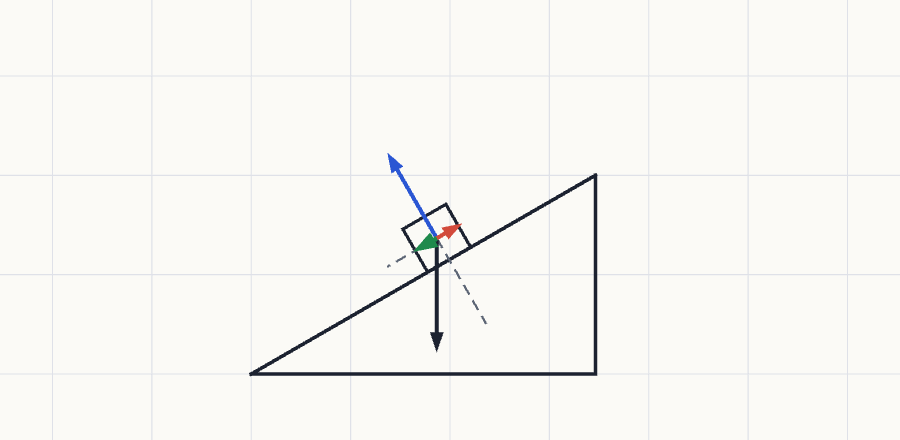
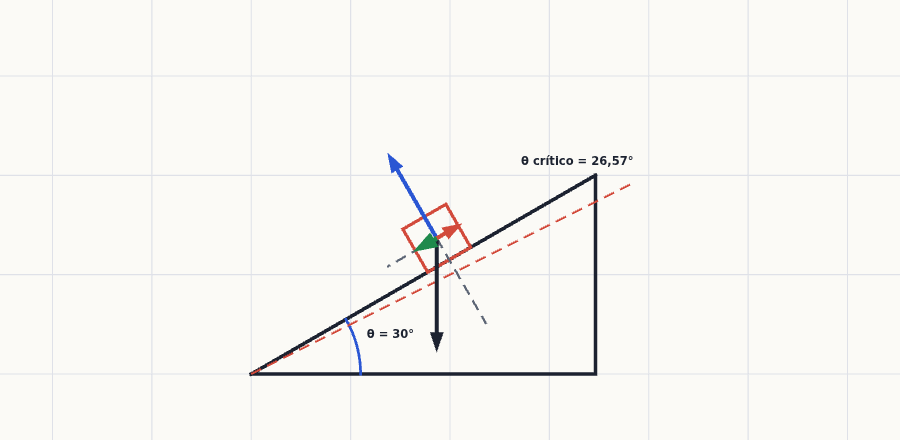
Interactivos con manipulación directa: asas arrastrables sobre el dibujo (rampa, cubo y sonda de presión, vector de lanzamiento, fuerzas, resorte, orificio) sincronizadas con los deslizadores
Claude-Session: https://claude.ai/code/session_013NPRw5Yt76X8T2S3CHRMJi

diff --git a/assets/escenas/flotacion.js b/assets/escenas/flotacion.js
@@ -1,20 +1,22 @@
 /* Flotación y principio de Arquímedes (tema 12, §12.3 de U; ejemplo 12.5). params: {"dim":2}.
    Recipiente ancho con un líquido de profundidad D = 50 cm (el nivel no cambia al meter el cuerpo) y un cubo de lado a y densidad ρc.
    Libre:    si ρc ≤ ρf flota con parte sumergida  d = a·ρc/ρf  (de B = mg);  si ρc > ρf se hunde y se apoya en el fondo (N = mg − B).
-   Colgado:  totalmente sumergido, cara superior 6 cm bajo la superficie;  T = mg − B  (peso aparente; T < 0 ⇒ el hilo no puede empujar).
+   Sostenido: el cuerpo se arrastra con el ratón (o con el deslizador) a la profundidad que se quiera, desde asomando hasta el fondo; B = ρf V_sum g crece mientras se hunde y se queda
+             constante al sumergirse del todo, aunque las presiones sigan creciendo (la diferencia p_inf − p_sup no cambia);  T = mg − B  (T < 0 ⇒ el hilo no puede empujar).
+   Sonda:    círculo arrastrable dentro del líquido: lee p = ρf g h, que solo depende de la profundidad (no de x), y la presión actúa en todas las direcciones.
    Fuerzas:  mg = ρc a³ g;  B = ρf V_sum g;  presiones manométricas p = ρf g (profundidad) en las caras;  B = (p_inf − p_sup)·a².
    Las flechas de fuerza comparten una misma escala (la mayor mide 10 unidades del dibujo). A la derecha, p(profundidad): recta con pendiente ρf g,
    cuyo extremo (fondo) siempre ocupa el ancho de la gráfica. g = 9,8 m/s². */
 Interactivos.registrar('flotacion', function (c) {
   var T = c.THREE, H = c.H, P = c.colores(), g = 9.8, D = 50, W = 60, GX = 72, GW = 46, w = 0.5, listo = false, objs = [];
   var FL = [['Etanol (810 kg/m³)', 810], ['Agua (1000 kg/m³)', 1000], ['Agua de mar (1030 kg/m³)', 1030], ['Glicerina (1260 kg/m³)', 1260], ['Mercurio (13600 kg/m³)', 13600]];
-  var iF = 1, rc = 600, a = 10, modo = 0;
-  var liq, sup, pared, cubo, borde, hilo, aMg, aB, aPt, aPb, aT, curv, guias, dt, db, eje;
+  var iF = 1, rc = 600, a = 10, modo = 0, ht = 6, sx0 = 12, sy0 = 20, sHt, selM;
+  var liq, sup, pared, cubo, borde, hilo, aMg, aB, aPt, aPb, aT, curv, guias, dt, db, eje, sonda, sGuia, sPt, sFl = [], cx = W / 2, cyy = 0, hsC = 6;
   var lPeso = c.lectura('Peso  mg = ρc a³ g'), lEmp = c.lectura('Empuje  B = ρf V sumergido g  (= peso del fluido desplazado)'), lFr = c.lectura('Parte del cuerpo sumergida'),
       lT = c.lectura('Hilo o fondo'), lP = c.lectura('Presión manométrica en la cara superior  |  inferior'), lC = c.lectura('Comprobación: B = (p inf − p sup)·A');
   var f = function (x, d) { var k = Math.pow(10, d), q = Math.round(x * k) / k; return String(q === 0 ? 0 : q).replace('-', '−').replace('.', ','); };
   var eMg = c.etiqueta('mg', 0, 0, 'c'), eB = c.etiqueta('B', 0, 0, 'c'), ePt = c.etiqueta('Fsup', 0, 0, 'r'), ePb = c.etiqueta('Finf', 0, 0, 'r'), eT = c.etiqueta('T', 0, 0, 'l'),
-      eG = c.etiqueta('p manométrica', GX, D + 4, 'l'), eF = c.etiqueta('fondo', GX + GW, -3, 'r'), eL = c.etiqueta('líquido', 3, D - 4, 'l');
+      eG = c.etiqueta('p manométrica', GX, D + 4, 'l'), eF = c.etiqueta('fondo', GX + GW, -3, 'r'), eL = c.etiqueta('líquido', 3, D - 4, 'l'), eSo = c.etiqueta('', 0, 0, 'l');
   function add(o, z) { o.position.z = z; c.scene.add(o); objs.push(o); return o; }
   function plano(col, op) { return new T.Mesh(new T.PlaneGeometry(1, 1), new T.MeshBasicMaterial({ color: col, transparent: true, opacity: op })); }
   function nuevo() {
@@ -32,19 +34,22 @@ Interactivos.registrar('flotacion', function (c) {
     dt = H.punto(T, 0, 0, w * 1.7, P.A); add(dt, 0.4); db = H.punto(T, 0, 0, w * 1.7, P.A); add(db, 0.4);
     aMg = add(H.flecha2D(T, P.fg, w * 1.8), 0.3); aB = add(H.flecha2D(T, P.L, w * 1.8), 0.31); aPt = add(H.flecha2D(T, P.S, w * 1.8), 0.32);
     aPb = add(H.flecha2D(T, P.S, w * 1.8), 0.33); aT = add(H.flecha2D(T, P.W, w * 1.8), 0.34);
+    sGuia = add(H.cinta(T, [], P.acc, w * 0.8, [w * 2.5, w * 2]), 0.08); sPt = H.punto(T, 0, 0, w * 1.7, P.acc); add(sPt, 0.4);
+    sonda = H.punto(T, 0, 0, w * 2.2, P.acc); add(sonda, 0.4);
+    sFl = [0, 1, 2, 3].map(function (i) { return add(H.flecha2D(T, P.acc, w * 1.3), 0.35); });
   }
   function calc() {
     if (!listo) return;
-    var rf = FL[iF][1], A2 = a / 100 * a / 100, V = A2 * a / 100, mg = rc * V * g, cx = W / 2, cy, yb, yt, dsum, colg = modo === 1, flota = false, apoy = false;
-    if (colg) { yt = D - 6; yb = yt - a; dsum = a; }
+    var rf = FL[iF][1], A2 = a / 100 * a / 100, V = A2 * a / 100, mg = rc * V * g, cy, yb, yt, dsum, colg = modo === 1, flota = false, apoy = false;
+    if (colg) { hsC = Math.min(ht, D - a); yt = D - hsC; yb = yt - a; dsum = Math.max(0, Math.min(a, D - yb)); }
     else if (rc <= rf) { dsum = a * rc / rf; yb = D - dsum; yt = yb + a; flota = true; }
     else { yb = 0; yt = a; dsum = a; apoy = true; }
-    cy = (yb + yt) / 2;
-    var B = rf * (A2 * dsum / 100) * g, Tt = mg - B, pt = rf * g * Math.max(0, D - yt) / 100, pb = rf * g * (D - yb) / 100, Bp = (pb - pt) * A2;
+    cy = (yb + yt) / 2; cyy = cy;
+    var B = rf * (A2 * dsum / 100) * g, Tt = mg - B, pt = rf * g * Math.max(0, D - yt) / 100, pb = rf * g * Math.max(0, D - yb) / 100, Bp = (pb - pt) * A2;
     var K = 10 / Math.max(1e-9, mg, B, pb * A2, pt * A2, Math.abs(Tt)), pmax = rf * g * D / 100, sx = GW / pmax;
     cubo.position.set(cx, cy, 0.1); cubo.scale.set(a, a, 1);
     borde.set([[[cx - a / 2, yb], [cx + a / 2, yb], [cx + a / 2, yt], [cx - a / 2, yt], [cx - a / 2, yb]]]);
-    hilo.set(colg ? [[[cx, yt], [cx, D + 8]], [[cx - 5, D + 8], [cx + 5, D + 8]]] : []);
+    var yh = Math.max(D + 8, yt + 5); hilo.set(colg ? [[[cx, yt], [cx, yh]], [[cx - 5, yh], [cx + 5, yh]]] : []);
     var x1 = cx - 0.3 * a, x2 = cx + 0.12 * a, x3 = cx + 0.36 * a, lPt = K * pt * A2, lPb = K * pb * A2;
     aPt.poner([x1, yt + lPt], [x1, yt]); if (apoy) aPb.poner([x1, yb], [x1, yb]); else aPb.poner([x1, yb - lPb], [x1, yb]);
     aMg.poner([x2, cy], [x2, cy - K * mg]); aB.poner([x3, cy], [x3, cy + K * B]);
@@ -54,11 +59,15 @@ Interactivos.registrar('flotacion', function (c) {
     var ypt = Math.min(yt, D), xpt = GX + sx * pt, xpb = GX + sx * pb;
     dt.mover(xpt, ypt); db.mover(xpb, yb);
     guias.set([[[W + 0.5, ypt], [xpt, ypt]], [[W + 0.5, yb], [xpb, yb]]]);
+    var ps = rf * g * (D - sy0) / 100, xs = GX + sx * ps, Lf = 1.2 + 5.5 * ps / pmax, rr = 2.6;
+    sonda.mover(sx0, sy0); sPt.mover(xs, sy0); sGuia.set([[[sx0 + 1.5, sy0], [xs, sy0]]]);
+    [[-1, 0], [1, 0], [0, 1], [0, -1]].forEach(function (d, i) { sFl[i].poner([sx0 + d[0] * (rr + Lf), sy0 + d[1] * (rr + Lf)], [sx0 + d[0] * rr, sy0 + d[1] * rr]); });
+    eSo.mover(xs + 1.2, sy0 + 2.4); eSo.poner('h = ' + f(D - sy0, 1) + ' cm → p = ' + f(ps / 1000, 2) + ' kPa');
     eF.poner('fondo: ' + f(pmax / 1000, 2) + ' kPa');
     lPeso(f(mg, 2) + ' N   (m = ' + f(rc * V, 3) + ' kg;  V = ' + f(V * 1e6, 0) + ' cm³)');
     lEmp(f(B, 2) + ' N');
     lFr(f(100 * dsum / a, 1) + ' %' + (flota ? '   (= ρc/ρf = ' + f(100 * rc / rf, 1) + ' %)' : ''));
-    lT(colg ? (Tt >= 0 ? 'T = mg − B = ' + f(Tt, 2) + ' N   (peso aparente)' : 'T = ' + f(Tt, 2) + ' N < 0: el hilo no puede empujar; sin hilo el cuerpo subiría y flotaría')
+    lT(colg ? (dsum < a - 1e-9 ? 'sostenido a medio sumergir: T = mg − B = ' + f(Tt, 2) + ' N' : Tt >= 0 ? 'T = mg − B = ' + f(Tt, 2) + ' N   (peso aparente)' : 'T = ' + f(Tt, 2) + ' N < 0: el hilo no puede empujar; sin hilo el cuerpo subiría y flotaría')
       : flota ? (rc === rf ? 'flota entre dos aguas: B = mg' : 'flota: B = mg (el empuje iguala al peso)')
       : 'se hunde y se apoya en el fondo: N = mg − B = ' + f(Tt, 2) + ' N (con líquido bajo la cara inferior; si no hubiera, B = 0 y N = mg)');
     lP(f(pt, 0) + ' Pa  |  ' + f(pb, 0) + ' Pa');
@@ -67,9 +76,16 @@ Interactivos.registrar('flotacion', function (c) {
   c.selector('Líquido (tabla 12.1 de U)', FL.map(function (q) { return q[0]; }), iF, function (i) { iF = i; calc(); });
   c.slider('Densidad del cuerpo ρc (kg/m³)', 100, 20000, 10, rc, function (v) { rc = v; calc(); }, function (v) { return f(v, 0) + ' kg/m³'; });
   c.slider('Lado del cubo a (cm)', 5, 20, 0.1, a, function (v) { a = v; calc(); }, function (v) { return f(v, 1) + ' cm'; });
-  c.selector('Cuerpo', ['Libre (se suelta)', 'Colgado de un hilo, totalmente sumergido'], modo, function (i) { modo = i; calc(); });
+  selM = c.selector('Cuerpo', ['Libre (se suelta)', 'Sostenido con un hilo (arrástralo)'], modo, function (i) { modo = i; calc(); });
+  sHt = c.slider('Profundidad de la cara superior (modo sostenido; negativo = asoma)', -10, 45, 0.5, ht, function (v) { ht = v; calc(); }, function (v) { return f(Math.min(v, D - a), 1) + ' cm'; });
+  c.agarres([
+    { titulo: 'Arrastra el cubo hacia arriba o hacia abajo', x: function () { return [cx, cyy]; },
+      mover: function (wx, wy) { if (modo !== 1) { selM.value = 1; selM.dispatchEvent(new Event('change')); } c.fijar(sHt, Math.max(-10, Math.min(45, D - wy - a / 2))); } },
+    { titulo: 'Sonda de presión: arrástrala dentro del líquido', x: function () { return [sx0, sy0]; },
+      mover: function (wx, wy) { sx0 = Math.max(9, Math.min(W - 9, wx)); sy0 = Math.max(1, Math.min(D, wy)); calc(); c.pedir(); } }
+  ]);
   c.leyenda([['var(--A)', 'cuerpo', 'area'], ['var(--fg)', 'peso mg', 'linea'], ['var(--X)', 'empuje B', 'linea'], ['var(--U)', 'fuerzas de presión F = pA en las caras', 'linea'],
-             ['var(--warn-b)', 'tensión T (colgado) o normal N (en el fondo)', 'linea'], ['var(--acc)', 'p(profundidad) = ρf g h', 'linea']]);
+             ['var(--warn-b)', 'tensión T (colgado) o normal N (en el fondo)', 'linea'], ['var(--acc)', 'p(profundidad) = ρf g h; la sonda la lee en cualquier punto', 'linea']]);
   c.alCambiarTema(function (p) {
     P = p; c.renderer.setClearColor(p.bg);
     if (!listo) return;

diff --git a/assets/interactivos.js b/assets/interactivos.js
@@ -217,7 +217,7 @@
         if (dos) scene.traverse(function (o) { if (o.reescalar) o.reescalar(z.s); });
         renderer.render(scene, camera);
         if (dos && params.marcas !== false) marcas();
-        if (dos) posEtiquetas();
+        if (dos) { posEtiquetas(); posAgarres(); }
       }
       /* Etiquetas de texto sobre el lienzo 2D (HTML, en coordenadas del mundo): ctx.etiqueta('texto', x, y, 'l'|'r'|'c') devuelve {poner, mover, ver, ancla, quitar}; solo 2D. */
       var capaE = null, etiq = [];
@@ -229,6 +229,18 @@
           var px = (e.x - L) / (R - L) * W, py = (T2 - e.y) / (T2 - B) * Hh;
           e.el.style.display = e.vis && px > -80 && px < W + 80 && py > -20 && py < Hh + 20 ? '' : 'none';
           e.el.style.left = px + 'px'; e.el.style.top = py + 'px';
+        });
+      }
+      /* Asas arrastrables (solo 2D): círculos pulsantes sobre el lienzo, en coordenadas del mundo. Ver ctx.agarres. */
+      var capaG = null, agr = [], hintAg = null;
+      function posAgarres() {
+        if (!capaG) return;
+        var W = stage.clientWidth, Hh = stage.clientHeight, L = camera.left, R = camera.right, T2 = camera.top, B = camera.bottom;
+        if (!W || !Hh || !(R > L) || !(T2 > B)) return;
+        agr.forEach(function (g) {
+          var p = g.a.x(), vis = !g.a.ver || g.a.ver(), px = (p[0] - L) / (R - L) * W, py = (T2 - p[1]) / (T2 - B) * Hh;
+          g.el.style.display = vis && px > -20 && px < W + 20 && py > -20 && py < Hh + 20 ? '' : 'none';
+          g.el.style.left = px + 'px'; g.el.style.top = py + 'px';
         });
       }
       /* Números en los ejes (solo 2D): etiquetas HTML sobre el lienzo, con paso 1·2·5·10ᵏ según la zona visible. */
@@ -369,7 +381,35 @@
             quitar: function () { var i = etiq.indexOf(o); if (i >= 0) etiq.splice(i, 1); if (el.parentNode) el.parentNode.removeChild(el); } };
           etiq.push(o); return o;
         },
-        alCambiarTema: function (cb) { temaCbs.push(cb); cb(paleta()); }
+        alCambiarTema: function (cb) { temaCbs.push(cb); cb(paleta()); },
+        /* Solo 2D. Asas que se arrastran con el ratón o el dedo directamente sobre el dibujo (la vista solo se mueve si se agarra el fondo):
+           agarres([{ x() → [x, y] posición actual en el mundo, mover(wx, wy) nuevo valor según el puntero, ver() opcional, titulo }]).
+           Para que el deslizador correspondiente siga al asa, mover() llama a ctx.fijar(deslizador, valor). */
+        agarres: function (lista) {
+          if (!dos) return;
+          if (!capaG) { capaG = document.createElement('div'); capaG.className = 'int-grips'; capaG.setAttribute('aria-hidden', 'true'); stage.appendChild(capaG); }
+          lista.forEach(function (a) {
+            var el = document.createElement('span'); el.className = 'int-grip'; if (a.titulo) el.title = a.titulo; capaG.appendChild(el); agr.push({ a: a, el: el });
+          });
+          function cerca(wx, wy, radio) {
+            var mejor = -1, dm = radio, i;
+            for (i = 0; i < agr.length; i++) {
+              if (agr[i].a.ver && !agr[i].a.ver()) continue;
+              var p = agr[i].a.x(), d = Math.hypot(p[0] - wx, p[1] - wy); if (d < dm) { dm = d; mejor = i; }
+            }
+            return mejor;
+          }
+          ctx.arrastre = {
+            coger: function (wx, wy, radio) { var i = cerca(wx, wy, radio); if (i >= 0) agr[i].el.classList.add('on'); return i; },
+            mover: function (i, wx, wy) { agr[i].a.mover(wx, wy); },
+            fin: function (i) { if (agr[i]) agr[i].el.classList.remove('on'); },
+            cerca: cerca
+          };
+          if (!hintAg) { hintAg = true; var h = stage.querySelector('.int-hint'); if (h) h.textContent = 'Arrastra los círculos del dibujo · rueda o pellizco: zoom · doble clic: restablecer'; }
+          pedir();
+        },
+        /* Pone un deslizador (el que devuelve ctx.slider) en un valor y avisa a la escena; el navegador lo ajusta al rango y al paso. */
+        fijar: function (r, v) { r.value = v; r.dispatchEvent(new Event('input')); }
       };
       if (dos) activarZoom();
       fn(ctx);
@@ -406,13 +446,14 @@
         cv.addEventListener('pointerdown', function (e) {
           if (ctx.arrastre && !Object.keys(ptrs).length) {
             var m = mundo(e.clientX, e.clientY), rc = cv.getBoundingClientRect();
-            var i = ctx.arrastre.coger(m[0], m[1], 18 * (camera.right - camera.left) / rc.width);
-            if (i >= 0) { arr = { id: e.pointerId, i: i }; cv.setPointerCapture(e.pointerId); return; }
+            var i = ctx.arrastre.coger(m[0], m[1], 24 * (camera.right - camera.left) / rc.width);
+            if (i >= 0) { arr = { id: e.pointerId, i: i }; try { cv.setPointerCapture(e.pointerId); } catch (x) {} return; }
           }
-          ptrs[e.pointerId] = { x: e.clientX, y: e.clientY }; cv.setPointerCapture(e.pointerId);
+          ptrs[e.pointerId] = { x: e.clientX, y: e.clientY }; try { cv.setPointerCapture(e.pointerId); } catch (x) {}
         });
         cv.addEventListener('pointermove', function (e) {
           if (arr && arr.id === e.pointerId) { var m = mundo(e.clientX, e.clientY); ctx.arrastre.mover(arr.i, m[0], m[1]); pedir(); return; }
+          if (ctx.arrastre && !Object.keys(ptrs).length) { var mh = mundo(e.clientX, e.clientY), rh = cv.getBoundingClientRect(); cv.style.cursor = ctx.arrastre.cerca(mh[0], mh[1], 24 * (camera.right - camera.left) / rh.width) >= 0 ? 'grab' : ''; }
           var p = ptrs[e.pointerId]; if (!p) return; var ids = Object.keys(ptrs);
           if (ids.length === 1) { mover(e.clientX - p.x, e.clientY - p.y); p.x = e.clientX; p.y = e.clientY; return; }
           if (ids.length !== 2) return;
@@ -421,7 +462,7 @@
           var d1 = Math.hypot(a.x - b.x, a.y - b.y), m1x = (a.x + b.x) / 2, m1y = (a.y + b.y) / 2, q = frac(m1x, m1y);
           if (d0 > 0 && d1 > 0) zoomEn(q[0], q[1], d0 / d1); mover(m1x - m0x, m1y - m0y);
         });
-        function suelta(e) { delete ptrs[e.pointerId]; if (arr && arr.id === e.pointerId) arr = null; }
+        function suelta(e) { delete ptrs[e.pointerId]; if (arr && arr.id === e.pointerId) { if (ctx.arrastre.fin) ctx.arrastre.fin(arr.i); arr = null; } }
         cv.addEventListener('pointerup', suelta); cv.addEventListener('pointercancel', suelta);
         cv.addEventListener('dblclick', reset); btnReset.addEventListener('click', reset);
       }

diff --git a/assets/escenas/plano-inclinado.js b/assets/escenas/plano-inclinado.js
@@ -1,14 +1,15 @@
-/* Plano inclinado con fricción (tema 5): DCL, ¿desliza o no? params: {"dim":2}. g = 9,8 m/s². */
+/* Plano inclinado con fricción (tema 5): DCL, ¿desliza o no? params: {"dim":2}. g = 9,8 m/s².
+   Se levanta la rampa arrastrando su vértice superior (o con el deslizador); la línea a trazos marca el ángulo crítico tan θc = μₛ, y el bloque cambia de color al pasarlo. */
 Interactivos.registrar('plano-inclinado', function (c) {
   var T = c.THREE, H = c.H, g = 9.8, rad = Math.PI / 180;
   var th = 30, m = 5, mus = 0.5, muk = 0.3, P = c.colores(), w, K = 4.6 / 98;
-  var ejes, tri, blq, fW, fN, ff, fS, comp;
+  var ejes, tri, blq, fW, fN, ff, fS, comp, arco, crit, sTh, eTh = c.etiqueta('θ', 0, 0, 'c'), eCr = c.etiqueta('', 0, 0, 'r');
   var le = c.lectura('Estado'), ln = c.lectura('n = mg cos θ'), lt = c.lectura('mg sen θ  (empuja cuesta abajo)'), lf = c.lectura('Fricción f'), la = c.lectura('Aceleración a');
   var fm = function (t) { return (Math.round(t * 100) / 100).toString().replace('-', '−').replace('.', ','); };
   function nuevo() {
     var v = [-1, 9, -1, 7.2]; w = 0.0055 * 8.2; c.vista(v[0], v[1], v[2], v[3]);
     ejes = H.ejes2D(T, [-40, 40, -40, 40], w, P.fg, P.bd, 2, 2); ejes.children[1].visible = false; c.scene.add(ejes);
-    tri = H.cinta(T, [], P.fg, w * 1.6); blq = H.cinta(T, [], P.fg, w * 1.4); comp = H.cinta(T, [], P.mut, w, [w * 5, w * 3]); c.scene.add(tri, blq, comp);
+    tri = H.cinta(T, [], P.fg, w * 1.6); blq = H.cinta(T, [], P.fg, w * 1.4); comp = H.cinta(T, [], P.mut, w, [w * 5, w * 3]); arco = H.cinta(T, [], P.acc, w * 1.2); crit = H.cinta(T, [], P.W, w * 0.9, [w * 5, w * 3]); c.scene.add(tri, blq, comp, arco, crit);
     fW = H.flecha2D(T, P.fg, w * 1.8); fN = H.flecha2D(T, P.S, w * 1.8); ff = H.flecha2D(T, P.W, w * 1.8); fS = H.flecha2D(T, P.L, w * 2.2);
     [fW, fN, ff, fS].forEach(function (f, i) { f.position.z = 0.3 + i * 0.01; c.scene.add(f); });
   }
@@ -16,7 +17,11 @@ Interactivos.registrar('plano-inclinado', function (c) {
     var t = th * rad, s = Math.sin(t), co = Math.cos(t), W = m * g, N = W * co, emp = W * s, fmax = mus * N, desliza = emp > fmax + 1e-9;
     var fr = desliza ? muk * N : emp, acc = desliza ? g * (s - muk * co) : 0;
     var L = 8, ux = co, uy = s, nx = -s, ny = co, B = [L * co, 0], Tp = [L * co, L * s];
-    tri.set([[[0, 0], B, Tp, [0, 0]]]);
+    tri.set([[[0, 0], B, Tp, [0, 0]]]); blq.material.color.set(desliza ? P.W : P.fg);
+    var ar = [], i, tc = Math.atan(mus), Lc = 8.6; for (i = 0; i <= 24; i++) ar.push([2.2 * Math.cos(t * i / 24), 2.2 * Math.sin(t * i / 24)]);
+    arco.set([ar]); crit.set([[[0, 0], [Lc * Math.cos(tc), Lc * Math.sin(tc)]]]);
+    eTh.mover(2.9 * Math.cos(t / 2), 2.9 * Math.sin(t / 2) + 0.05); eTh.poner('θ = ' + th + '°');
+    eCr.mover(Lc * Math.cos(tc), Lc * Math.sin(tc) + 0.45); eCr.poner('θ crítico = ' + fm(tc / rad) + '°');
     var q = 4.6, hx = q * ux + 0.5 * nx, hy = q * uy + 0.5 * ny, d = 0.5, cs = [[-d, -d], [d, -d], [d, d], [-d, d], [-d, -d]];
     blq.set([cs.map(function (p) { return [q * ux + p[0] * ux + (p[1] + d) * nx, q * uy + p[0] * uy + (p[1] + d) * ny]; })]);
     var cx = hx, cy = hy;
@@ -27,16 +32,18 @@ Interactivos.registrar('plano-inclinado', function (c) {
     le(desliza ? 'Desliza cuesta abajo (mg sen θ > μₛ·n): f = μₖ·n' : 'Reposo (mg sen θ ≤ μₛ·n): f = mg sen θ, a = 0');
     ln(fm(N) + ' N'); lt(fm(emp) + ' N   (límite μₛ·n = ' + fm(fmax) + ' N)'); lf(fm(fr) + ' N'); la(fm(acc) + ' m/s²' + (desliza ? '  = g(sen θ − μₖ cos θ)' : ''));
   }
-  c.slider('Ángulo θ (°)', 0, 60, 1, th, function (s) { th = s; if (fS) calc(); });
+  sTh = c.slider('Ángulo θ (°)  — también arrastrando la rampa', 0, 60, 1, th, function (s) { th = s; if (fS) calc(); });
   c.slider('Masa m (kg)', 1, 10, 1, m, function (s) { m = s; if (fS) calc(); });
   c.slider('μₛ', 0.1, 1, 0.05, mus, function (s) { mus = s; if (muk > mus) muk = mus; if (fS) calc(); });
   c.slider('μₖ (≤ μₛ)', 0.05, 1, 0.05, muk, function (s) { muk = Math.min(s, mus); if (fS) calc(); });
-  c.leyenda([['var(--fg)', 'peso mg', 'linea'], ['var(--U)', 'normal n', 'linea'], ['var(--warn-b)', 'fricción f', 'linea'], ['var(--X)', 'ΣF (cuesta abajo)', 'linea'], ['var(--mut)', 'componentes del peso (a trazos)', 'linea']]);
+  c.agarres([{ titulo: 'Arrastra para inclinar la rampa', x: function () { return [8 * Math.cos(th * rad), 8 * Math.sin(th * rad)]; },
+    mover: function (wx, wy) { c.fijar(sTh, Math.max(0, Math.min(60, Math.atan2(wy, Math.max(wx, 1e-6)) / rad))); } }]);
+  c.leyenda([['var(--fg)', 'peso mg', 'linea'], ['var(--U)', 'normal n', 'linea'], ['var(--warn-b)', 'fricción f', 'linea'], ['var(--X)', 'ΣF (cuesta abajo)', 'linea'], ['var(--mut)', 'componentes del peso (a trazos)', 'linea'], ['var(--warn-b)', 'ángulo crítico (a trazos): más allá desliza', 'linea']]);
   c.alCambiarTema(function (p) {
     P = p; c.renderer.setClearColor(p.bg);
     if (!ejes) return;
     ejes.userData.eje.color.set(p.fg); ejes.userData.rejilla.color.set(p.bd); tri.material.color.set(p.fg); blq.material.color.set(p.fg); comp.material.color.set(p.mut);
-    fW.material.color.set(p.fg); fN.material.color.set(p.S); ff.material.color.set(p.W); fS.material.color.set(p.L);
+    arco.material.color.set(p.acc); crit.material.color.set(p.W); fW.material.color.set(p.fg); fN.material.color.set(p.S); ff.material.color.set(p.W); fS.material.color.set(p.L);
   });
   nuevo(); calc();
 });

diff --git a/assets/escenas/proyectil.js b/assets/escenas/proyectil.js
@@ -1,8 +1,9 @@
-/* Movimiento de proyectiles (tema 3): trayectoria, v con sus componentes y a = −g ĵ. params: {"dim":2}. g = 9,8 m/s². */
+/* Movimiento de proyectiles (tema 3): trayectoria, v con sus componentes y a = −g ĵ. params: {"dim":2}. g = 9,8 m/s².
+   Se lanza arrastrando la punta de la flecha de v₀ (rapidez y ángulo a la vez) y se mueve el proyectil a lo largo de la trayectoria para ver v en cada instante. */
 Interactivos.registrar('proyectil', function (c) {
   var T = c.THREE, H = c.H, g = 9.8, rad = Math.PI / 180;
   var v0 = 20, th = 40, h0 = 0, fr = 0.5, P = c.colores(), clave = '', w, S;
-  var ejes, tray, pb, fv, fvx, fvy, fa, suelo;
+  var ejes, tray, pb, fv, fvx, fvy, fa, suelo, f0, sV0, sTh, sFr;
   var lT = c.lectura('Tiempo de vuelo'), lR = c.lectura('Alcance'), lH = c.lectura('Altura máxima'), lt = c.lectura('Instante t'), lvv = c.lectura('v en ese instante'), lc = c.lectura('v_x  ,  v_y');
   var fm = function (t) { return (Math.round(t * 100) / 100).toString().replace('-', '−').replace('.', ','); };
   function dat() {
@@ -11,13 +12,14 @@ Interactivos.registrar('proyectil', function (c) {
   }
   function nuevo() {
     var d = dat(), L = H.techo(Math.max(d.R, d.H, 6) * 1.1), k = L + '|' + P.fg; if (k === clave && ejes) return; clave = k; S = L;
-    [ejes, tray, pb, fv, fvx, fvy, fa].forEach(function (o) { if (o) c.scene.remove(o); });
+    [ejes, tray, pb, fv, fvx, fvy, fa, f0].forEach(function (o) { if (o) c.scene.remove(o); });
     var v = [-0.05 * L, L, -0.12 * L, 0.75 * L]; w = 0.0055 * (v[3] - v[2]); c.vista(v[0], v[1], v[2], v[3]);
     var dx = 1.5 * (v[1] - v[0]), dy = 1.5 * (v[3] - v[2]), vw = [v[0] - dx, v[1] + dx, v[2] - dy, v[3] + dy], pa = H.paso(L, 8);
     ejes = H.ejes2D(T, vw, w, P.fg, P.bd, pa, pa); c.scene.add(ejes);
     tray = H.cinta(T, [], P.acc, w * 1.4, [w * 6, w * 3]); tray.position.z = 0.1; c.scene.add(tray);
     fvx = H.flecha2D(T, P.L, w * 1.3); fvy = H.flecha2D(T, P.A, w * 1.3); fv = H.flecha2D(T, P.S, w * 1.6); fa = H.flecha2D(T, P.W, w * 1.6);
     [fvx, fvy, fv, fa].forEach(function (f, i) { f.position.z = 0.3 + i * 0.01; c.scene.add(f); });
+    f0 = H.flecha2D(T, P.mut, w * 1.6); f0.position.z = 0.25; c.scene.add(f0);
     pb = H.punto(T, 0, h0, w * 3.2, P.fg); pb.position.z = 0.6; c.scene.add(pb);
   }
   function calc() {
@@ -25,16 +27,21 @@ Interactivos.registrar('proyectil', function (c) {
     for (i = 0; i <= 120; i++) { var s = d.T * i / 120; pts.push([d.vx * s, h0 + d.vy * s - 0.5 * g * s * s]); }
     tray.set([pts]);
     var x = d.vx * t, y = h0 + d.vy * t - 0.5 * g * t * t, vy = d.vy - g * t, k = 0.22 * S / Math.max(v0, 1);
+    var k0 = 0.4 * S / 40; f0.poner([0, h0], [v0 * k0 * Math.cos(th * rad), h0 + v0 * k0 * Math.sin(th * rad)]);
     pb.mover(x, y); fv.poner([x, y], [x + d.vx * k, y + vy * k]);
     fvx.poner([x, y], [x + d.vx * k, y]); fvy.poner([x, y], [x, y + vy * k]); fa.poner([x, y], [x, y - 0.14 * S]);
     lT(fm(d.T) + ' s'); lR(fm(d.R) + ' m'); lH(fm(d.H) + ' m'); lt(fm(t) + ' s');
     lvv(fm(Math.hypot(d.vx, vy)) + ' m/s, ' + fm(Math.atan2(vy, d.vx) / rad) + '° respecto a la horizontal'); lc(fm(d.vx) + ' , ' + fm(vy) + ' m/s');
   }
-  c.slider('Rapidez inicial v₀ (m/s)', 5, 40, 1, v0, function (s) { v0 = s; if (tray) calc(); });
-  c.slider('Ángulo inicial α₀ (°)', 0, 90, 1, th, function (s) { th = s; if (tray) calc(); });
+  sV0 = c.slider('Rapidez inicial v₀ (m/s)', 5, 40, 1, v0, function (s) { v0 = s; if (tray) calc(); });
+  sTh = c.slider('Ángulo inicial α₀ (°)', 0, 90, 1, th, function (s) { th = s; if (tray) calc(); });
   c.slider('Altura inicial y₀ (m)', 0, 30, 1, h0, function (s) { h0 = s; if (tray) calc(); });
-  c.slider('Instante (fracción del vuelo)', 0, 1, 0.01, fr, function (s) { fr = s; if (tray) calc(); }, function (s) { return Math.round(s * 100) + ' %'; });
-  c.leyenda([['var(--U)', 'v', 'linea'], ['var(--X)', 'vₓ (constante)', 'linea'], ['var(--A)', 'v_y', 'linea'], ['var(--warn-b)', 'a = −g ĵ (longitud fija, no a escala)', 'linea']]);
+  sFr = c.slider('Instante (fracción del vuelo)', 0, 1, 0.01, fr, function (s) { fr = s; if (tray) calc(); }, function (s) { return Math.round(s * 100) + ' %'; });
+  c.agarres([{ titulo: 'Arrastra la punta para lanzar: longitud = rapidez, dirección = ángulo', x: function () { var k0 = 0.4 * S / 40; return [v0 * k0 * Math.cos(th * rad), h0 + v0 * k0 * Math.sin(th * rad)]; },
+    mover: function (wx, wy) { var k0 = 0.4 * S / 40, dx = wx, dy = wy - h0; c.fijar(sTh, Math.max(0, Math.min(90, Math.atan2(dy, Math.max(dx, 0)) / rad))); c.fijar(sV0, Math.hypot(dx, dy) / k0); } },
+    { titulo: 'Arrastra el proyectil a lo largo de la trayectoria', x: function () { var d = dat(), t = d.T * fr; return [d.vx * t, h0 + d.vy * t - 0.5 * g * t * t]; },
+      mover: function (wx) { var d = dat(); c.fijar(sFr, d.R > 1e-6 ? wx / d.R : 0); } }]);
+  c.leyenda([['var(--U)', 'v', 'linea'], ['var(--X)', 'vₓ (constante)', 'linea'], ['var(--A)', 'v_y', 'linea'], ['var(--warn-b)', 'a = −g ĵ (longitud fija, no a escala)', 'linea'], ['var(--mut)', 'v₀ al lanzar (flecha gris, arrastra su punta)', 'linea']]);
   c.alCambiarTema(function (p) {
     P = p; c.renderer.setClearColor(p.bg);
     if (!ejes) return; clave = ''; calc();

diff --git a/assets/escenas/fuerzas.js b/assets/escenas/fuerzas.js
@@ -1,4 +1,5 @@
-/* Segunda ley de Newton en 2D (tema 4): dos fuerzas sobre un cuerpo, ΣF y a = ΣF/m. params: {"dim":2}. */
+/* Segunda ley de Newton en 2D (tema 4): dos fuerzas sobre un cuerpo, ΣF y a = ΣF/m. params: {"dim":2}.
+   Cada fuerza se maneja arrastrando la punta de su flecha (módulo y dirección a la vez) o con los deslizadores. */
 Interactivos.registrar('fuerzas', function (c) {
   var T = c.THREE, H = c.H, rad = Math.PI / 180;
   var F1 = 10, a1 = 0, F2 = 8, a2 = 90, m = 2, P = c.colores(), w;
@@ -20,10 +21,13 @@ Interactivos.registrar('fuerzas', function (c) {
     ls('(' + fm(sx) + ' , ' + fm(sy) + ') N'); lm(fm(mod) + ' N' + (mod > 1e-6 ? ', ' + fm(Math.atan2(sy, sx) / rad) + '°' : '  (equilibrio: ΣF = 0, a = 0)'));
     la(fm(mod / m) + ' m/s²' + (mod > 1e-6 ? ' en la misma dirección que ΣF' : ''));
   }
-  c.slider('F₁ (N)', 0, 15, 0.5, F1, function (s) { F1 = s; if (fs) calc(); });
-  c.slider('Ángulo de F₁ (°)', -180, 180, 1, a1, function (s) { a1 = s; if (fs) calc(); });
-  c.slider('F₂ (N)', 0, 15, 0.5, F2, function (s) { F2 = s; if (fs) calc(); });
-  c.slider('Ángulo de F₂ (°)', -180, 180, 1, a2, function (s) { a2 = s; if (fs) calc(); });
+  var sF1 = c.slider('F₁ (N)', 0, 15, 0.5, F1, function (s) { F1 = s; if (fs) calc(); });
+  var sA1 = c.slider('Ángulo de F₁ (°)', -180, 180, 1, a1, function (s) { a1 = s; if (fs) calc(); });
+  var sF2 = c.slider('F₂ (N)', 0, 15, 0.5, F2, function (s) { F2 = s; if (fs) calc(); });
+  var sA2 = c.slider('Ángulo de F₂ (°)', -180, 180, 1, a2, function (s) { a2 = s; if (fs) calc(); });
+  function punta(sF, sA) { return function (wx, wy) { if (Math.hypot(wx, wy) > 0.4) c.fijar(sA, Math.atan2(wy, wx) / rad); c.fijar(sF, Math.min(15, Math.hypot(wx, wy))); }; }
+  c.agarres([{ titulo: 'Arrastra la punta de F₁', x: function () { return [F1 * Math.cos(a1 * rad), F1 * Math.sin(a1 * rad)]; }, mover: punta(sF1, sA1) },
+             { titulo: 'Arrastra la punta de F₂', x: function () { return [F2 * Math.cos(a2 * rad), F2 * Math.sin(a2 * rad)]; }, mover: punta(sF2, sA2) }]);
   c.slider('Masa m (kg)', 0.5, 10, 0.5, m, function (s) { m = s; if (fs) calc(); });
   c.leyenda([['var(--U)', 'F₁', 'linea'], ['var(--A)', 'F₂', 'linea'], ['var(--warn-b)', 'ΣF = F₁ + F₂', 'linea']]);
   c.alCambiarTema(function (p) {

diff --git a/assets/escenas/trabajo-resorte.js b/assets/escenas/trabajo-resorte.js
@@ -1,4 +1,5 @@
-/* Trabajo de un resorte (tema 6): área bajo F_x(x) = −kx entre x₁ y x₂ y teorema trabajo-energía. params: {"dim":2}. */
+/* Trabajo de un resorte (tema 6): área bajo F_x(x) = −kx entre x₁ y x₂ y teorema trabajo-energía. params: {"dim":2}.
+   x₁ (negro) y x₂ (naranja) se arrastran sobre la recta; el área sombreada cambia al instante. */
 Interactivos.registrar('trabajo-resorte', function (c) {
   var T = c.THREE, H = c.H;
   var k = 200, x1 = 0.3, x2 = 0, m = 0.5, v1 = 0, P = c.colores(), w, clave = '', kx = 1;
@@ -25,8 +26,10 @@ Interactivos.registrar('trabajo-resorte', function (c) {
     lf(fm(-k * x1) + ' N  ,  ' + fm(-k * x2) + ' N');
   }
   c.slider('Constante k (N/m)', 50, 500, 50, k, function (s) { k = s; if (sombra) calc(); });
-  c.slider('Posición inicial x₁ (m)', -0.4, 0.4, 0.05, x1, function (s) { x1 = s; if (sombra) calc(); });
-  c.slider('Posición final x₂ (m)', -0.4, 0.4, 0.05, x2, function (s) { x2 = s; if (sombra) calc(); });
+  var sX1 = c.slider('Posición inicial x₁ (m)', -0.4, 0.4, 0.05, x1, function (s) { x1 = s; if (sombra) calc(); });
+  var sX2 = c.slider('Posición final x₂ (m)', -0.4, 0.4, 0.05, x2, function (s) { x2 = s; if (sombra) calc(); });
+  c.agarres([{ titulo: 'Arrastra x₁ (posición inicial)', x: function () { return [x1 * kx, -k * x1]; }, mover: function (wx) { c.fijar(sX1, wx / kx); } },
+             { titulo: 'Arrastra x₂ (posición final)', x: function () { return [x2 * kx, -k * x2]; }, mover: function (wx) { c.fijar(sX2, wx / kx); } }]);
   c.slider('Masa m (kg)', 0.1, 2, 0.1, m, function (s) { m = s; if (sombra) calc(); });
   c.slider('Rapidez inicial v₁ (m/s)', 0, 10, 0.5, v1, function (s) { v1 = s; if (sombra) calc(); });
   c.leyenda([['var(--acc)', 'F_x = −kx (fuerza del resorte, N)', 'linea'], ['var(--X)', 'área = trabajo (signo según el sentido)', 'area']]);

diff --git a/assets/interactivos.css b/assets/interactivos.css
@@ -15,6 +15,13 @@ figure.interactivo .int-lab{position:absolute;white-space:nowrap;text-shadow:0 0
 figure.interactivo .int-lab.c{transform:translate(-50%,-50%)}
 figure.interactivo .int-lab.l{transform:translate(0,-50%)}
 figure.interactivo .int-lab.r{transform:translate(-100%,-50%)}
+figure.interactivo .int-grips{position:absolute;inset:0;pointer-events:none;overflow:hidden}
+figure.interactivo .int-grip{position:absolute;width:24px;height:24px;margin:-12px 0 0 -12px;box-sizing:border-box;border-radius:50%;border:2.5px solid var(--acc);background:color-mix(in srgb,var(--acc) 22%,var(--bg));box-shadow:0 1px 4px rgba(0,0,0,.3);animation:int-pulso 2s ease-out infinite}
+figure.interactivo .int-grip::after{content:"";position:absolute;left:50%;top:50%;width:6px;height:6px;margin:-3px 0 0 -3px;border-radius:50%;background:var(--acc)}
+figure.interactivo .int-grip.on{animation:none;background:color-mix(in srgb,var(--acc) 55%,var(--bg));transform:scale(1.15)}
+@keyframes int-pulso{0%{box-shadow:0 0 0 0 color-mix(in srgb,var(--acc) 55%,transparent)}70%,100%{box-shadow:0 0 0 12px transparent}}
+@media (prefers-reduced-motion:reduce){figure.interactivo .int-grip{animation:none}}
+@media print{figure.interactivo .int-grips{display:none}}
 figure.interactivo .int-hint{position:absolute;left:8px;bottom:6px;font:.72rem var(--sans);color:var(--mut);background:color-mix(in srgb,var(--bg) 80%,transparent);padding:1px 6px;border-radius:4px;pointer-events:none}
 figure.interactivo .int-msg{position:absolute;inset:0;z-index:2;display:flex;flex-direction:column;gap:10px;align-items:center;justify-content:center;color:var(--mut);background:var(--bg);padding:1em;text-align:center}
 figure.interactivo .int-spin{width:34px;height:34px;border:3px solid var(--bd);border-top-color:var(--acc);border-radius:50%;animation:int-giro .8s linear infinite}

diff --git a/assets/escenas/torricelli.js b/assets/escenas/torricelli.js
@@ -63,9 +63,11 @@ Interactivos.registrar('torricelli', function (c) {
   }
   c.selector('Líquido', FL.map(function (q) { return q[0]; }), iF, function (i) { iF = i; calc(); });
   c.slider('Altura del líquido H (m)', 0.5, 15, 0.5, Ht, function (v) { Ht = v; calc(); }, function (v) { return f(v, 1) + ' m'; });
-  c.slider('Profundidad del orificio h (m)', 0.1, 15, 0.1, hh, function (v) { hh = v; calc(); }, function (v) { return f(Math.min(v, Ht), 1) + ' m'; });
+  var sHh = c.slider('Profundidad del orificio h (m)  — también arrastrando el orificio', 0.1, 15, 0.1, hh, function (v) { hh = v; calc(); }, function (v) { return f(Math.min(v, Ht), 1) + ' m'; });
   c.slider('Presión manométrica del aire sobre el líquido (atm; 0 = abierto)', 0, 3, 0.05, pm, function (v) { pm = v; calc(); }, function (v) { return f(v, 2) + ' atm'; });
   c.slider('Diámetro del orificio d (mm)', 1, 50, 1, dd, function (v) { dd = v; calc(); }, function (v) { return f(v, 0) + ' mm'; });
+  c.agarres([{ titulo: 'Arrastra el orificio hacia arriba o hacia abajo', x: function () { return [tw, Math.max(0, Ht - Math.min(hh, Ht))]; },
+    mover: function (wx, wy) { c.fijar(sHh, Math.max(0.1, Math.min(Ht, Ht - wy))); } }]);
   c.leyenda([['var(--U)', 'líquido', 'area'], ['var(--acc)', 'chorro (tiro horizontal)', 'linea'], ['var(--X)', 'velocidad de salida (proporcional a v, con tope)', 'linea'], ['var(--mut)', 'aire sobre el líquido y cota h', 'linea']]);
   c.alCambiarTema(function (p) {
     P = p; c.renderer.setClearColor(p.bg);

diff --git a/cambios.html b/cambios.html
@@ -20,8 +20,9 @@ main.cambios h2{font-size:1.05rem;margin:1.8em 0 .3em;padding-top:.5em;border-to
 <div class="topbar"><div class="in"><a href="index.html">← Índice de temas</a></div></div>
 <main class="cambios">
 <h1>Cambios</h1>
-<p>Historial de cambios del proyecto (generado desde git el 2026-11-21; 133 cambios). Cada tema lleva además su fecha de última revisión en el pie.</p>
+<p>Historial de cambios del proyecto (generado desde git el 2026-11-22; 134 cambios). Cada tema lleva además su fecha de última revisión en el pie.</p>
 <h2>2026-11-21</h2>
+<article class="cmb"><b>Teoría más al grano: «Errores frecuentes» fusionado con los errores de cada caja (solo quedan los no repetidos), retirados los ejemplos de libro y ejemplos mínimos que repetían ejercicios resueltos</b><small>122e4c9</small></article>
 <article class="cmb"><b>iPad en vertical: fórmulas y tablas anchas desplazables (sin zoom horizontal), índice lateral plegado hasta 1200 px; quitada la barra de progreso del índice</b><small>22d6709</small></article>
 <article class="cmb"><b>«Solo lo esencial» también condensa la teoría (sin pregunta previa, ejemplos mínimos, ejemplos de libro, figuras del libro ni mini-tests)</b><small>9dc87e4</small></article>
 <article class="cmb"><b>Fuentes ocultas por defecto en los temas, con botón «Mostrar fuentes» (se recuerda la elección)</b><small>455a3e5</small></article>

diff --git a/herramientas/capturar_interactivos.py b/herramientas/capturar_interactivos.py
@@ -56,7 +56,7 @@ def pagina(escena, params, tmp):
 <style>body{{margin:0;background:#fbfaf6;overflow:hidden}}
 figure.interactivo{{margin:0;border:0;border-radius:0;width:{ANCHO}px}}
 figure.interactivo .int-stage{{aspect-ratio:auto;height:{ALTO}px;max-height:none}}
-figure.interactivo .int-play,figure.interactivo .int-ctl,figure.interactivo .int-ro,figure.interactivo .int-leg,figure.interactivo figcaption,.int-hint,.int-reset,.int-static{{display:none!important}}</style>
+figure.interactivo .int-play,figure.interactivo .int-ctl,figure.interactivo .int-ro,figure.interactivo .int-leg,figure.interactivo figcaption,.int-hint,.int-reset,.int-grips,.int-static{{display:none!important}}</style>
 <script src="{js.as_uri()}"></script>
 <figure class="interactivo" data-escena="{escena}" data-params='{params}'><figcaption>x</figcaption></figure>
 <script>setInterval(function(){{document.title=Date.now()}},100)</script>""", encoding="utf8")

diff --git a/CLAUDE.md b/CLAUDE.md
@@ -121,7 +121,7 @@ Reglas de contenido (para alguien que estudia por primera vez):
     - No duplicar la figura del libro: si U ya trae el dibujo (recorte `bookfig`), la SVG solo se añade si aporta algo distinto (valores del ejercicio, gráfica asociada, comparación).
 
 12 bis. **Dibujo de planteamiento en los problemas de examen (X).** Al inicio de la respuesta de cada X (justo tras el enunciado) va una figura `xN-planteamiento`: esquema del enunciado con datos e incógnitas y un DCL por cuerpo con los ejes elegidos, sin resultados numéricos, como se dibujaría en el examen. Se genera con `herramientas/planteamiento.py` (ver su cabecera); hecho en todos los problemas numéricos de examen (temas 2-3, 5-8, 10, 13-14 y 18-20; las preguntas de teoría y cuestiones no llevan dibujo).
-13. **Ejemplos interactivos con three.js (2D y 3D) dentro del tema.** Motor copiado del proyecto de Cálculo (misma API: `Interactivos.registrar(nombre, ctx => …)`, carga perezosa, claro/oscuro, zoom 2D). Se añade un `<figure class="interactivo" data-escena="…" data-params='{"dim":2}'>` tras la explicación del concepto que ilustra (3D: sin `dim`; 2D: `{"dim":2}`; `{"marcas":false}` quita los números de los ejes) cuando **mover un parámetro enseña algo que la figura estática no**: máx. 2-3 por tema, nunca sustituye a los ejercicios resueltos ni a las figuras SVG/del libro, no entra en la chuleta. Fuente `data-l="P"`. La escena va en `assets/escenas/<nombre>.js`; el `<head>` del tema lleva `interactivos.css` y `interactivos.js` (ya en los temas 1-6). Reglas: colores solo con la paleta del motor (`c.colores()`: `S`=--U, `L`=--X, `A`, `E`, `W`=--warn-b, `acc`, `fg`, `mut`, `bd`), `escalaX(k)` si los ejes tienen unidades distintas (gráficas x-t, F-x), helpers `flecha2D`, `flecha` (3D), `cinta`, `punto`, `grafica`, `ejes2D(…, sx, sy)`, `techo`, `paso`; valores mostrados calculados con las mismas fórmulas del tema y **comprobados con Python/sympy**; las flechas que no están a escala se dicen en la leyenda. Tras añadir uno: `python herramientas/capturar_interactivos.py <filtro>` (crea `assets/img/int_*.png` y la etiqueta `<img class="int-static">`). Hechos: T1 `vectores` (3D, A·B y A×B), T2 `mua` (x-t y v-t), T3 `proyectil` y `circulo`, T4 `fuerzas`, T5 `plano-inclinado` y `pendulo-conico` (3D), T6 `trabajo-resorte`, T20 `carnot` y `entropia`. Ideas para los temas siguientes: T7 pozo de potencial y conservación de E, T8 colisiones 1D/2D con momento y K, T9-10 rotación (rodadura, torque 3D), T11 equilibrio/elasticidad, T12 presión y empuje, T13 órbitas (Kepler, 3D), T14-15 MAS y ondas (superposición), T16 batidos/Doppler, T17-20 gases (pV, ciclos).
+13. **Ejemplos interactivos con three.js (2D y 3D) dentro del tema.** Motor copiado del proyecto de Cálculo (misma API: `Interactivos.registrar(nombre, ctx => …)`, carga perezosa, claro/oscuro, zoom 2D). Se añade un `<figure class="interactivo" data-escena="…" data-params='{"dim":2}'>` tras la explicación del concepto que ilustra (3D: sin `dim`; 2D: `{"dim":2}`; `{"marcas":false}` quita los números de los ejes) cuando **mover un parámetro enseña algo que la figura estática no**: máx. 2-3 por tema, nunca sustituye a los ejercicios resueltos ni a las figuras SVG/del libro, no entra en la chuleta. Fuente `data-l="P"`. La escena va en `assets/escenas/<nombre>.js`; el `<head>` del tema lleva `interactivos.css` y `interactivos.js` (ya en los temas 1-6). Reglas: colores solo con la paleta del motor (`c.colores()`: `S`=--U, `L`=--X, `A`, `E`, `W`=--warn-b, `acc`, `fg`, `mut`, `bd`), `escalaX(k)` si los ejes tienen unidades distintas (gráficas x-t, F-x), helpers `flecha2D`, `flecha` (3D), `cinta`, `punto`, `grafica`, `ejes2D(…, sx, sy)`, `techo`, `paso`; valores mostrados calculados con las mismas fórmulas del tema y **comprobados con Python/sympy**; las flechas que no están a escala se dicen en la leyenda. **Manipulación directa (solo 2D):** además de los deslizadores, una escena puede declarar asas con `ctx.agarres([{ x(), mover(wx, wy), ver(), titulo }])` (círculos pulsantes que se arrastran sobre el dibujo; `mover` pasa el valor al deslizador con `ctx.fijar(deslizador, valor)` para que ambos vayan a la par; `ctx.slider` devuelve el `<input>`). Hechos: plano inclinado (vértice de la rampa, con ángulo crítico a trazos), flotación (cubo sostenido y sonda de presión), proyectil (flecha de v₀ y proyectil sobre la trayectoria), fuerzas (puntas de F₁ y F₂), trabajo del resorte (x₁ y x₂) y Torricelli (orificio). Pendientes de convertir: choques, MAS, ondas, ciclos pV, órbitas… Tras añadir uno: `python herramientas/capturar_interactivos.py <filtro>` (crea `assets/img/int_*.png` y la etiqueta `<img class="int-static">`). Hechos: T1 `vectores` (3D, A·B y A×B), T2 `mua` (x-t y v-t), T3 `proyectil` y `circulo`, T4 `fuerzas`, T5 `plano-inclinado` y `pendulo-conico` (3D), T6 `trabajo-resorte`, T20 `carnot` y `entropia`. Ideas para los temas siguientes: T7 pozo de potencial y conservación de E, T8 colisiones 1D/2D con momento y K, T9-10 rotación (rodadura, torque 3D), T11 equilibrio/elasticidad, T12 presión y empuje, T13 órbitas (Kepler, 3D), T14-15 MAS y ondas (superposición), T16 batidos/Doppler, T17-20 gases (pV, ciclos).
 
 ## 4. Flujo de trabajo por tema (subagentes en `.claude/agents/`)
 
